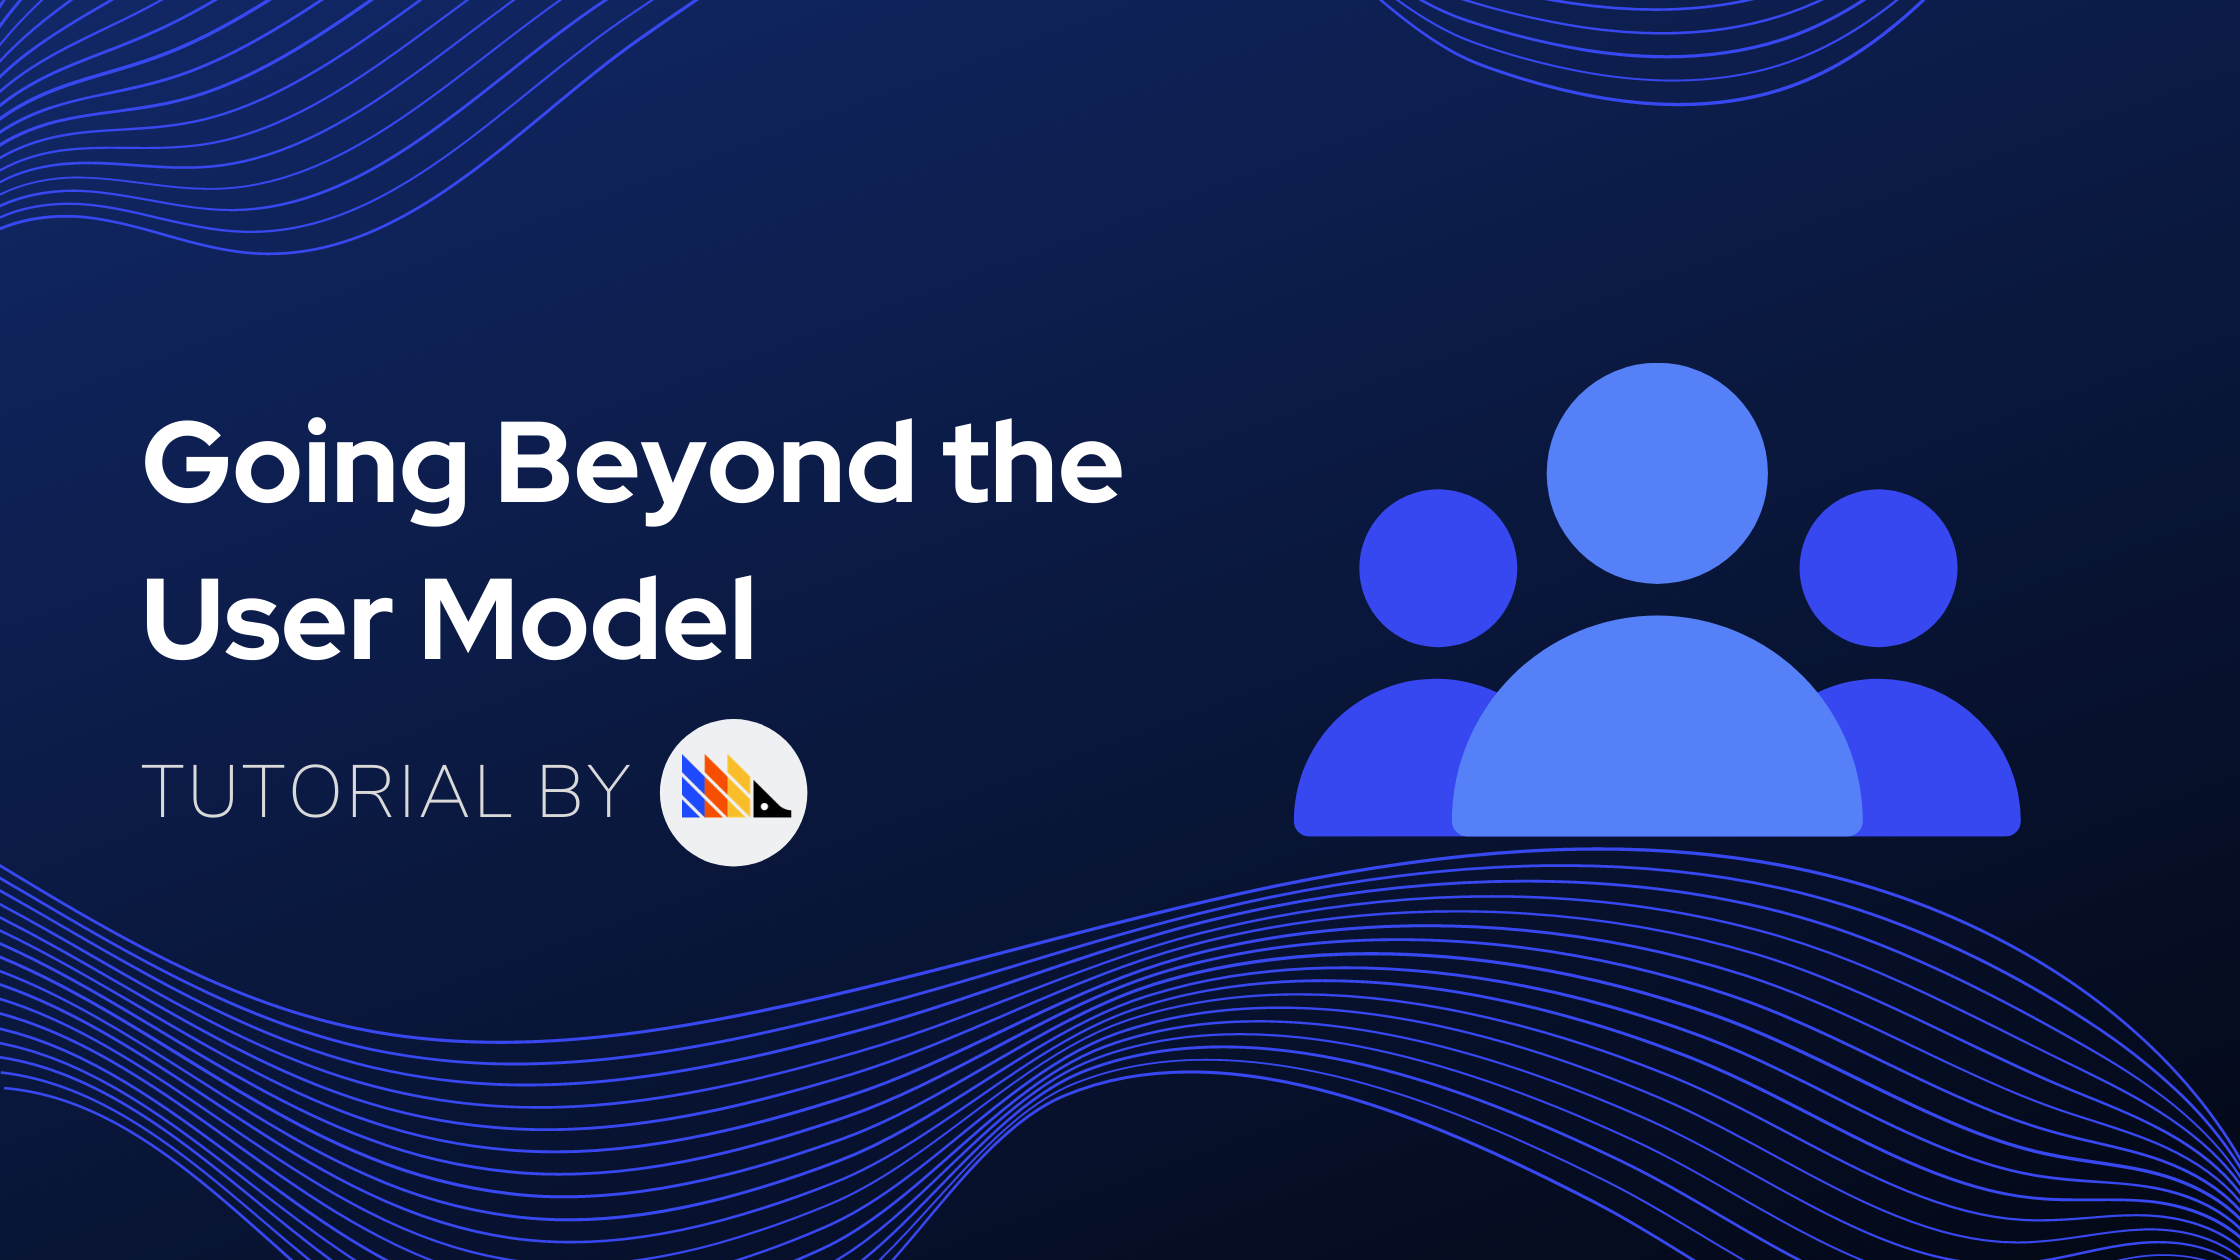
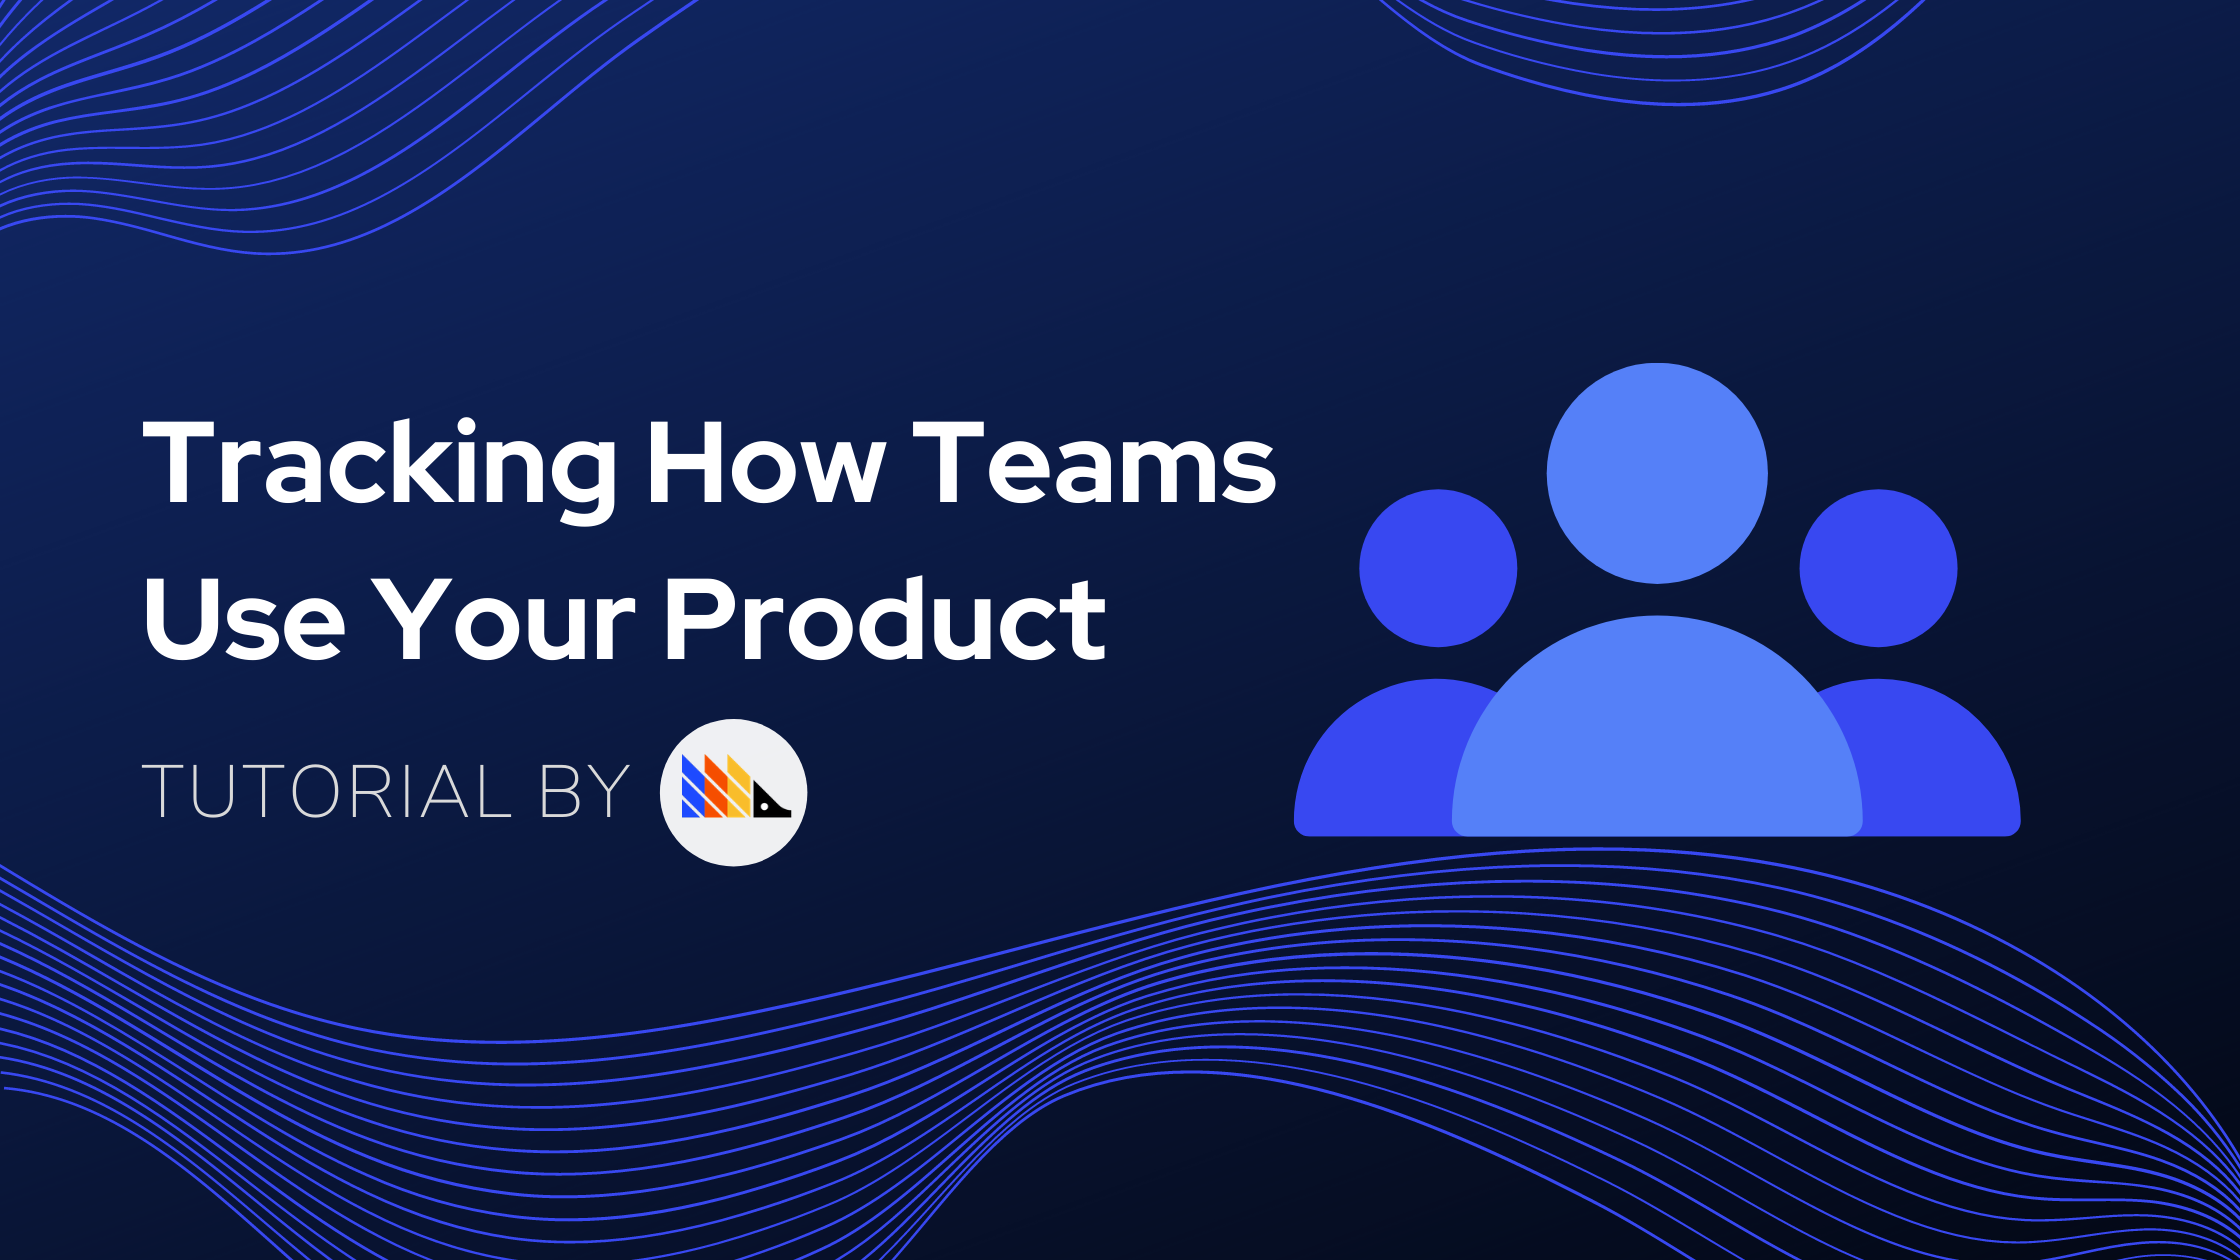
tracking teams

Changed region(s): [[0.0625, 0.3095, 0.5938, 0.5262]]

diff --git a/contents/docs/tutorials/tracking-teams.md b/contents/docs/tutorials/tracking-teams.md
@@ -1,5 +1,5 @@
 ---
-title: Going Beyond the User Model
+title: Tracking How Teams Use Your Product
 sidebar: Docs
 showTitle: true
 ---
